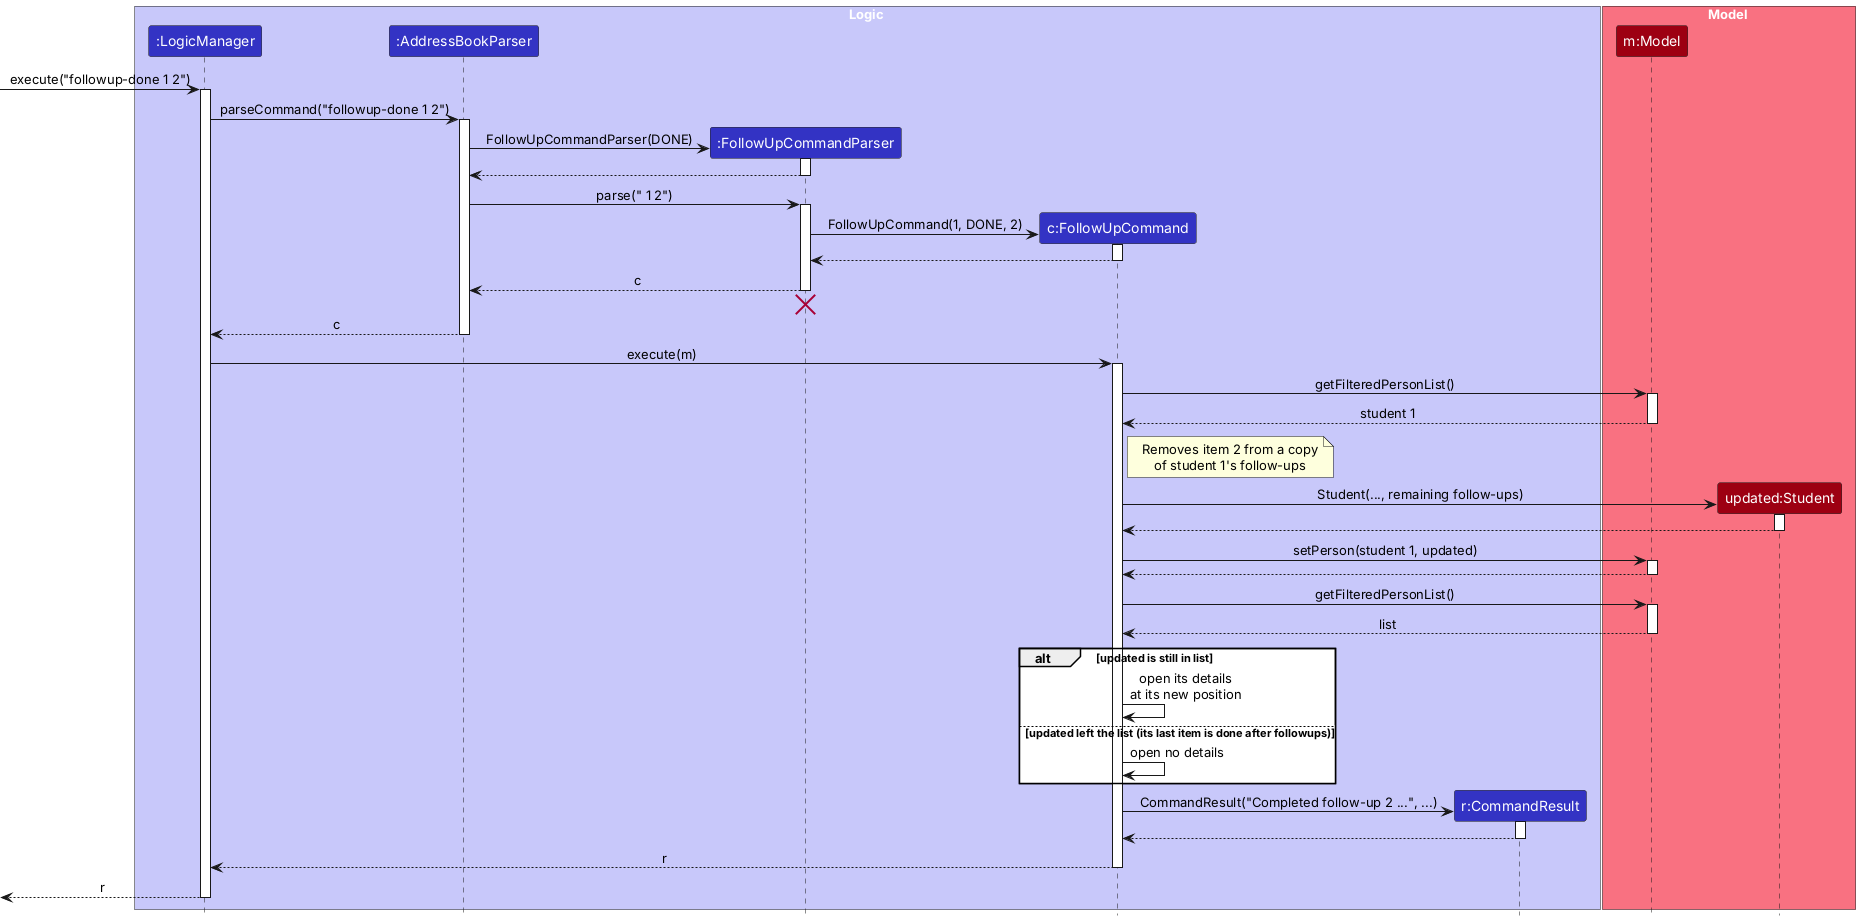
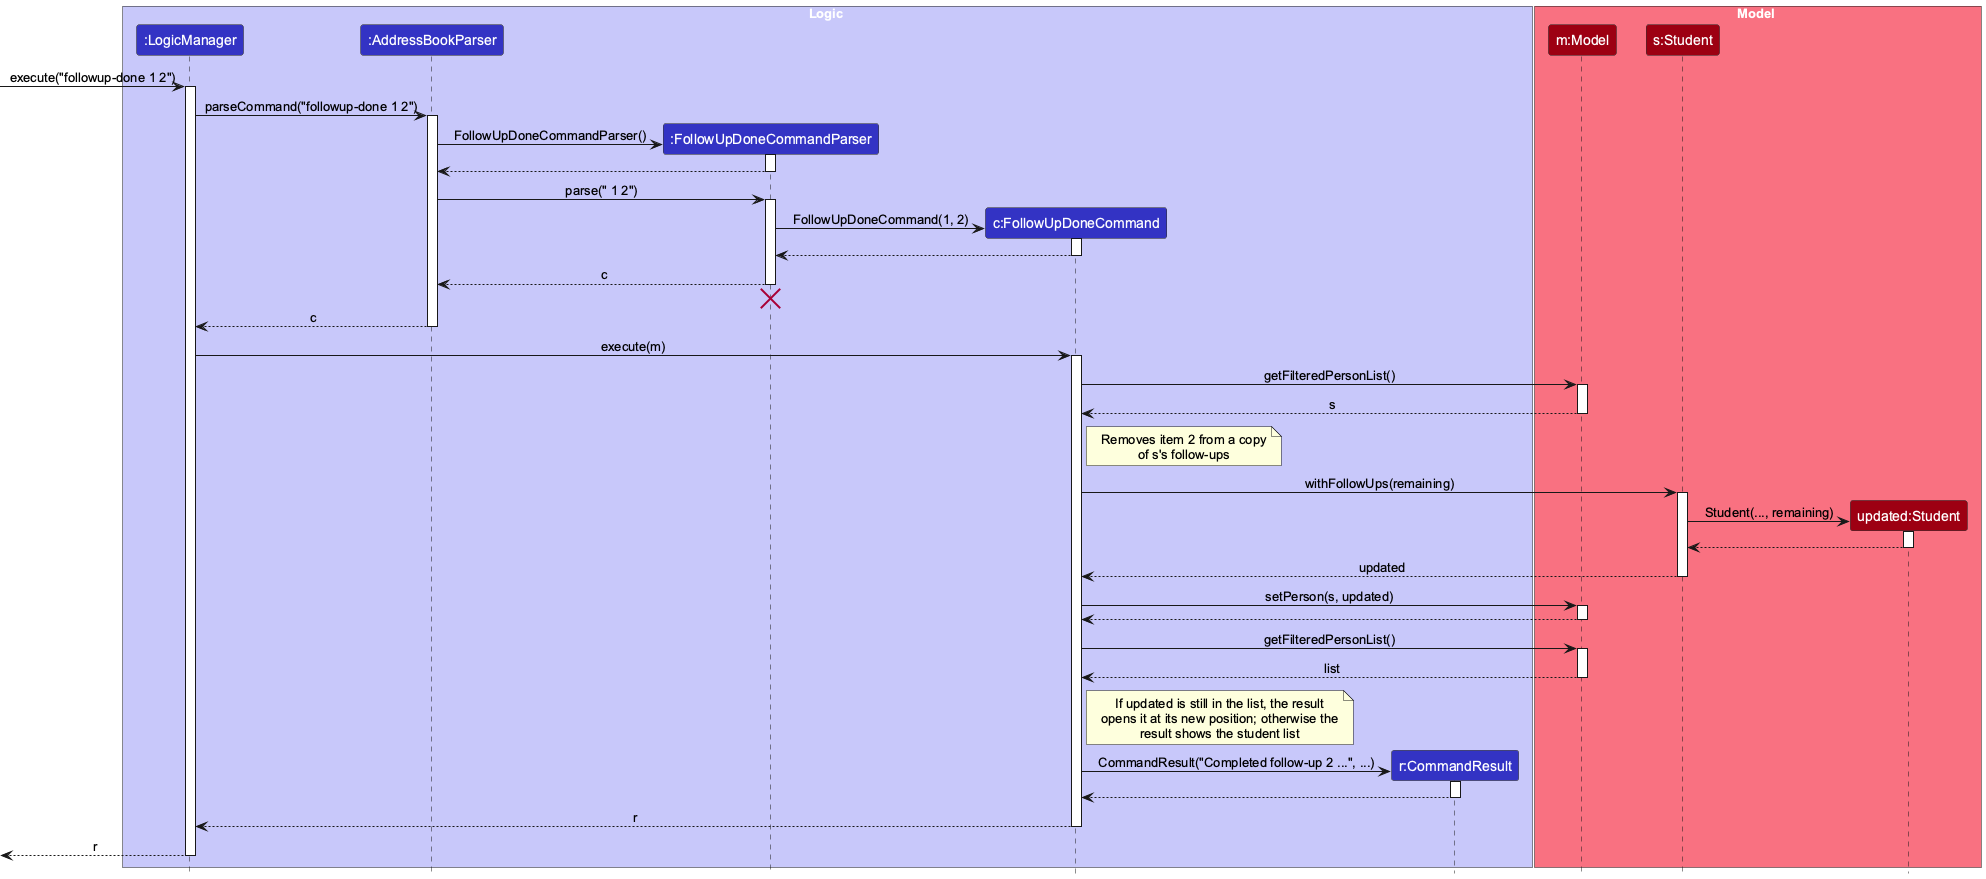
Bring the DG diagrams in line with the course notation and code
Class diagrams:
* UI: add WeekPanel, ScheduleGrid and LessonCard, show two PersonListPanels
* Storage: add the guardian, lesson, note and follow-up JSON classes
* Model: two UniquePersonLists; Student's parts are associations, since
  Student copies share them
* Person, FollowUp, ProgressNote, BetterModel: match the current fields
* Parser: drop a dependency ParserUtil does not have
* Architecture: add a legend; UI only uses Model, so its arrow is dashed

Sequence diagrams for delete, followup-done and note-add now match the
calls in the code, with labelled constructors and activation bars.

DG: show the lesson class diagram, use ObservableList<Student>, and move
the save and rollback text from the find section to Logic and Storage.

diff --git a/docs/DeveloperGuide.md b/docs/DeveloperGuide.md
@@ -134,6 +134,7 @@ Command execution works as follows:
 1. The created parser is used to parse the command into a `Command` object (e.g. `DeleteCommand`).
 1. The `Command` object is executed by `LogicManager`
 1. The `Command` object communicates with `Model` when executed (e.g. deleting a person). This may require several interactions between `Command` and `Model`, but is represented as one interaction above for simplicity.
+1. `LogicManager` saves only record changes. If saving fails, it rolls back records, filters and sorting, and the UI restores open details.
 1. The result of the command is encapsulated as a `CommandResult` object when returned from `Logic`.
 
 #### Command Parsing
@@ -158,7 +159,7 @@ Command parsing works as follows:
 
 The `Model` component stores:
 * all students in one of two `UniquePersonList`s, depending on if they are active or archived
-* current filtered list of `Student`s, as a separate unmodifiable `ObservableList<Person>`
+* current filtered list of `Student`s, as a separate unmodifiable `ObservableList<Student>`
 * the filter for `Lesson`s
 * user preferences in `UserPrefs`
 
@@ -176,17 +177,24 @@ This alternative is not the current implementation.
 
 <img src="images/PersonClassDiagram.png" width="500" />
 
+Each `Lesson` groups a required subject, weekly slot and hourly rate with an optional location and mode.
+
+<img src="images/LessonClassDiagram.png" width="450" />
+
 ### Storage component
 
 **API Specification**: `Storage.java`
 **Interacts with**: `Model`
 **Depends on**: `Model`
 
-<img src="images/StorageClassDiagram.png" width="550" />
+<img src="images/StorageClassDiagram.png" width="650" />
 
 The `Storage` component:
 * Saves address book data and user preference data in JSON format, and reads them back into corresponding objects
 * Delegates JSON file access to `JsonAddressBookStorage` and `JsonUserPrefsStorage` (one class per data file)
+
+`JsonAddressBookStorage` atomically replaces the file from a temporary file, preserving permissions.
+Failures retain the original and remove the temporary file. Unsupported atomic replacement fails without a fallback.
 
 ### Common classes
 Classes used by multiple components are in the `seedu.address.commons package`.
@@ -234,9 +242,7 @@ both `s` and `f`. Prefix validation and the parser's own creation and lifetime a
 to the model, reads the matching students to form the result summary, and returns a `CommandResult`
 that selects the students screen. The model is shown through its interface; internal filtering, logging
 and UI observation are omitted. The repeated list lookup used by logging is also omitted.
-`LogicManager` saves only record changes and rolls back records, filters and sorting on failure; the UI restores open details.
-`JsonAddressBookStorage` atomically replaces the file from a temporary file, preserving permissions.
-Failures retain the original and remove the temporary file. Unsupported atomic replacement fails without a fallback.
+`LogicManager` saves any record changes after execution, outside this diagram's scope.
 
 ![Execution of a combined student search](images/FindSequenceDiagram.png)
 

diff --git a/planning/diagrams/class-diagrams.md b/planning/diagrams/class-diagrams.md
@@ -80,7 +80,6 @@ These are places where PlantUML or our `style.puml` disagree with the course. Ea
 - Association class: `(Tutor, Student) .. Enrolment`.
 - A label starting with `*` is read as a list bullet. Escape it: `"~* items"`, as `ModelClassDiagram.puml` does.
 - Generic classes: with the house white class font, PlantUML's corner box for `<T>` renders white on white. `LessonClassDiagram.puml` uses `skinparam genericDisplay old`, which prints `UniqueList<T>` inline instead. That is a readable deviation from the course's corner-box notation; use it knowingly, and check the PNG.
-- Existing diagram to fix: `LessonClassDiagram.puml` writes field names as mid-line labels (`Lesson --> "1" Subject : subject`). By the course's rules those are role names and belong at the `Subject` end (`"1 subject"`). Flagged here for cleanup; not changed by this guide.
 
 ## Example
 
